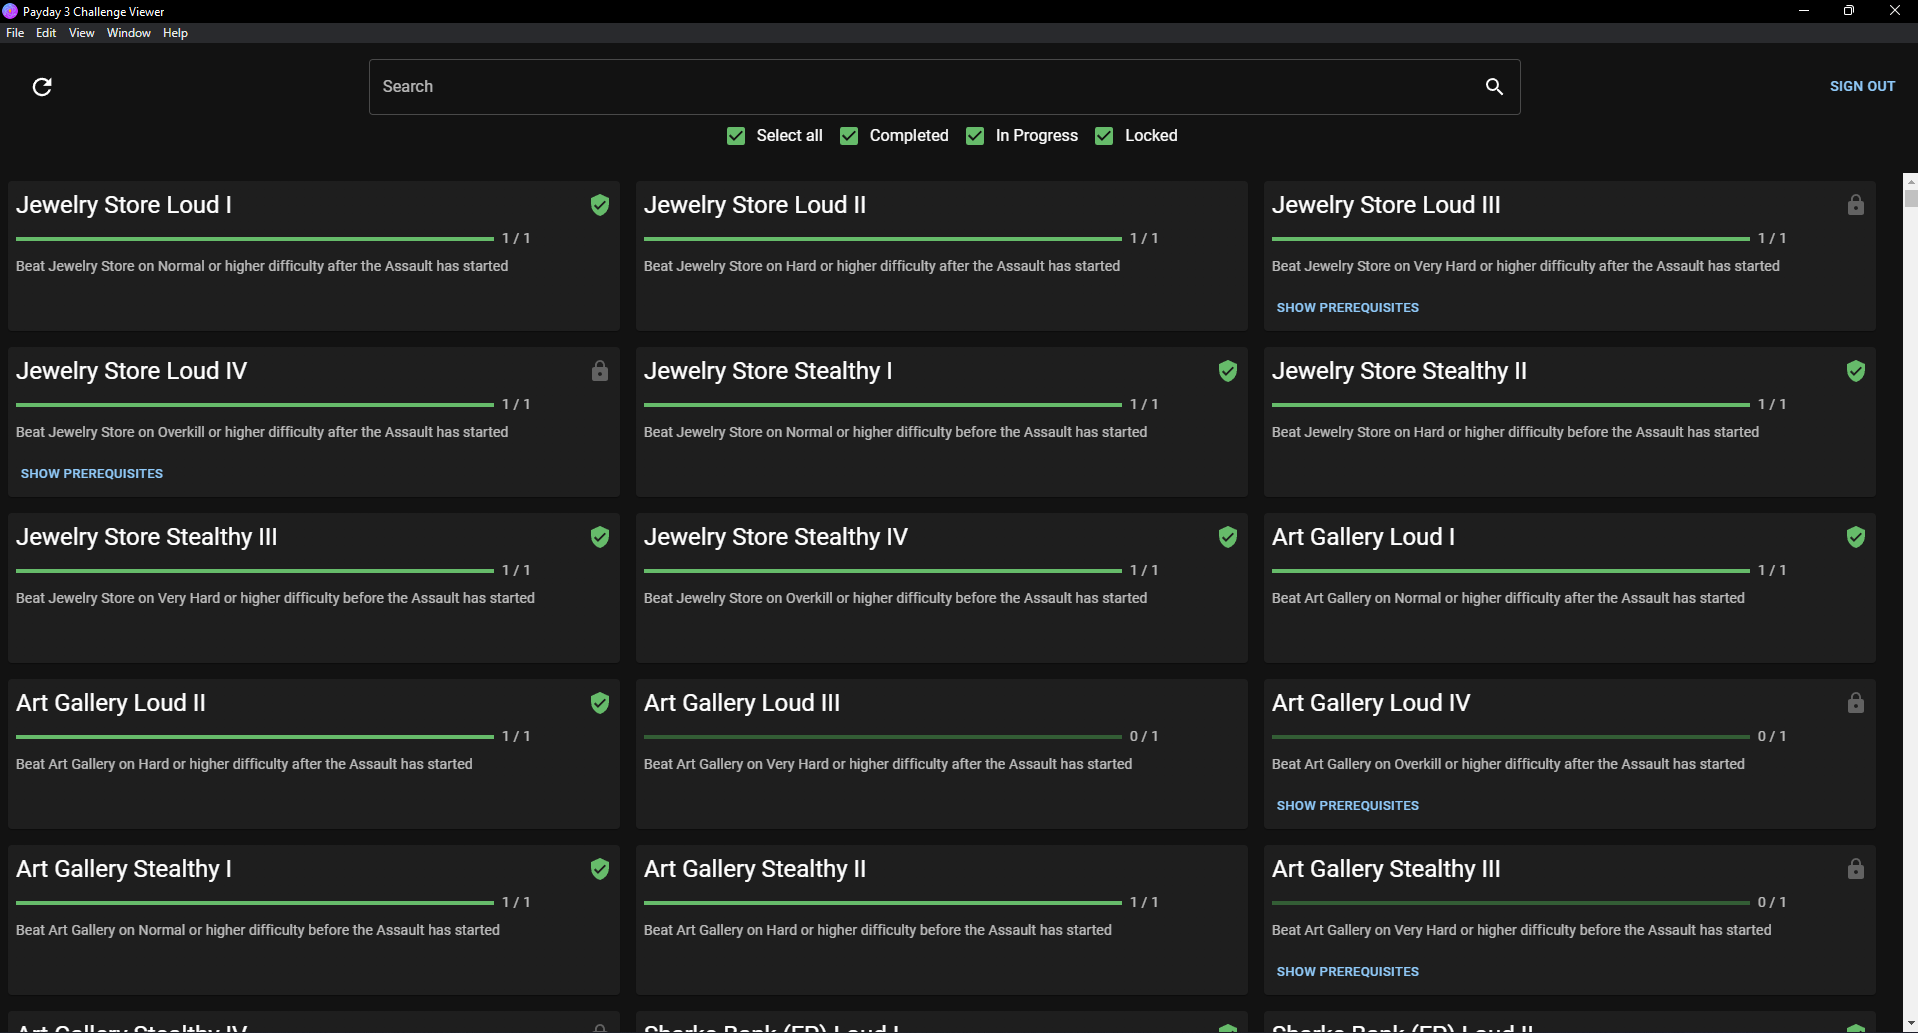
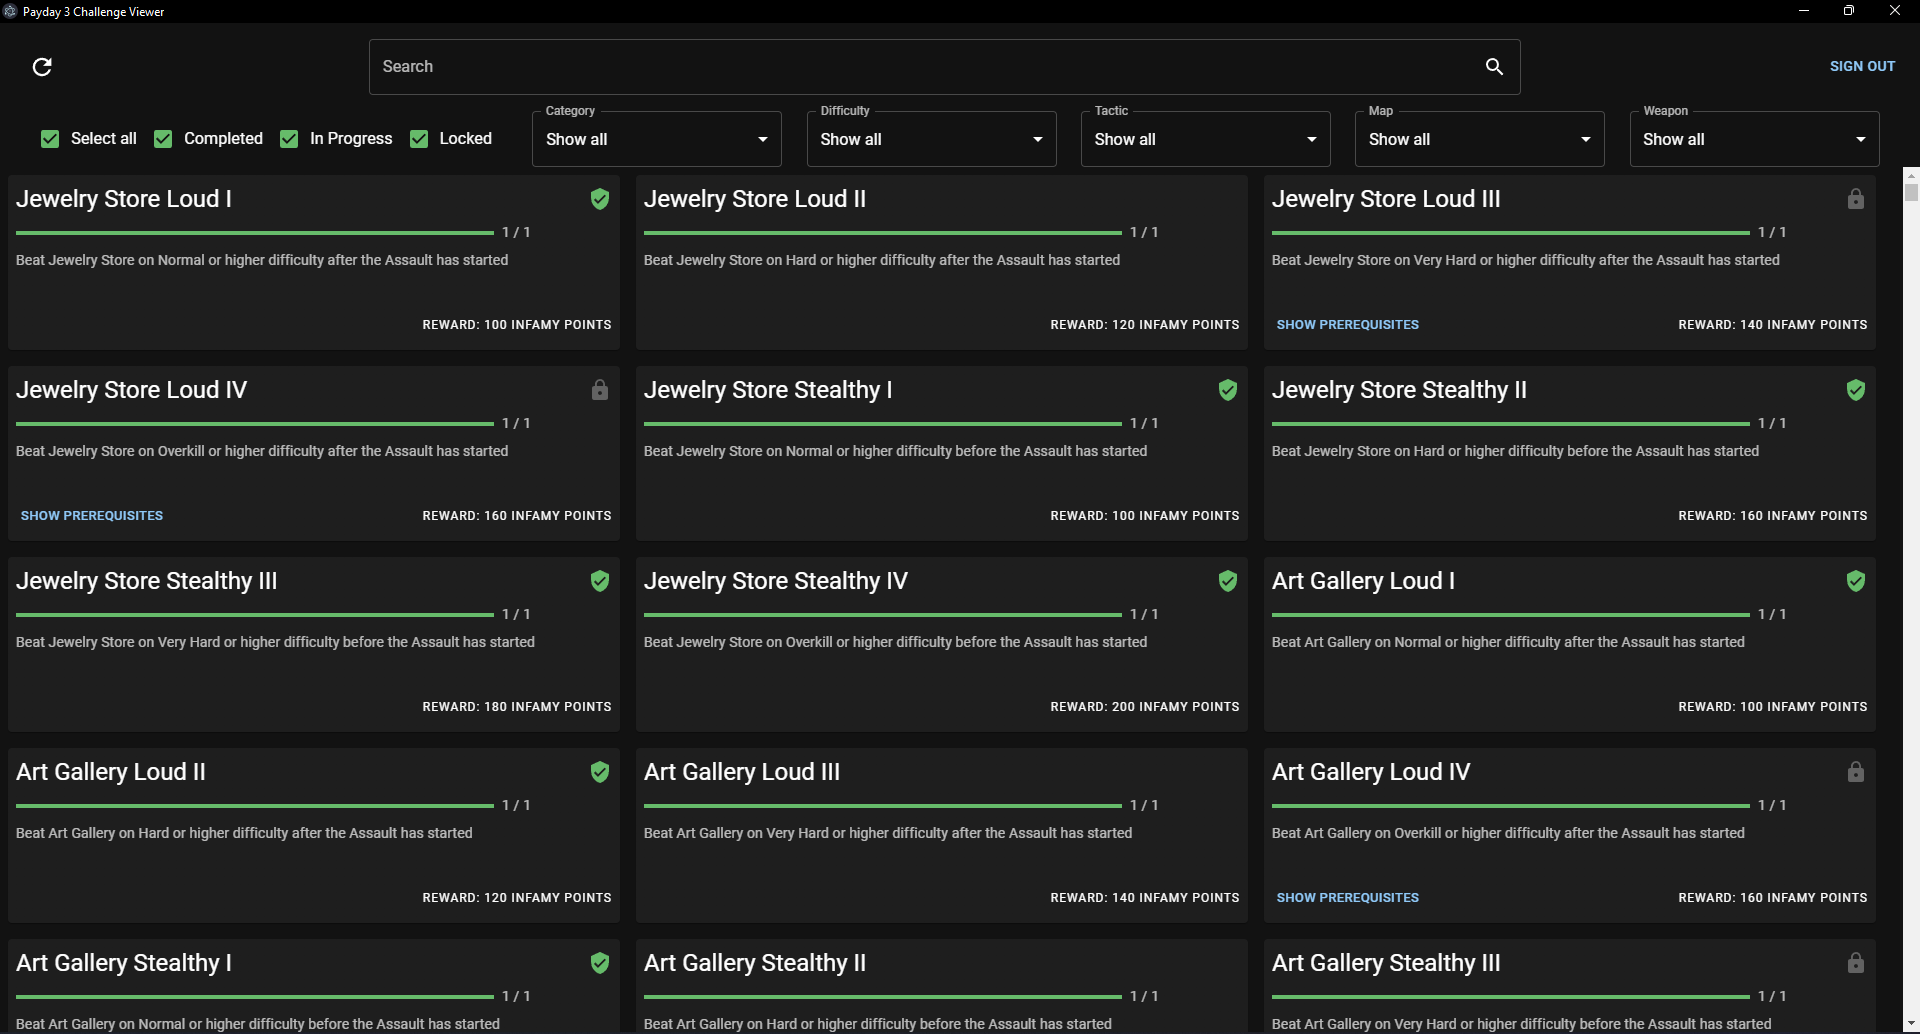
Add filters on tags

diff --git a/src/renderer/src/components/challenges.components.tsx b/src/renderer/src/components/challenges.components.tsx
@@ -12,6 +12,8 @@ import IconButton from '@mui/material/IconButton'
 import Button from '@mui/material/Button'
 import Modal from '@mui/material/Modal'
 import ChallengeModal from './challengeModal.components'
+import FilterSelect from './filterSelect.components'
+import customTagFilters from '@renderer/data/customTagFilters'
 
 const ItemContainer = styled.div`
   padding: 0.5rem;
@@ -43,6 +45,7 @@ export default function Challenges({ onLogout }: any) {
     INPROGRESS: true,
     INIT: true
   })
+  const [activeFilters, setActiveFilters] = useState({})
   const [open, setOpen] = React.useState(false)
   const handleOpen = () => setOpen(true)
   const handleClose = () => setOpen(false)
@@ -60,13 +63,16 @@ export default function Challenges({ onLogout }: any) {
     const data = await getUserChallenges()
     if (data) {
       const filteredChallenges = data.filter(
-        (challenge: any) => !challenge.challenge?.tags?.includes('Achievement')
+        (challenge: any) =>
+          !challenge.challenge?.tags?.includes('Achievement') &&
+          challenge.challenge?.tags.length > 0
       )
 
       const sortedChallenges = filteredChallenges.sort(
         (a: any, b: any) => a.challenge.orderNo - b.challenge.orderNo
       )
       setChallenges(sortedChallenges)
+      console.log(sortedChallenges)
     }
   }
 
@@ -74,10 +80,23 @@ export default function Challenges({ onLogout }: any) {
     const name = challenge.challenge.name.toLowerCase()
     const description = challenge.challenge.description.toLowerCase()
     const term = searchTerm.toLowerCase()
+
+    const hasTags = challenge.challenge.tags && challenge.challenge.tags.length > 0
+
+    const satisfiesActiveFilters = Object.entries(activeFilters).every(
+      ([filterType, filterTags]) => {
+        if (hasTags) {
+          return (filterTags as string[]).every((tag) => challenge.challenge.tags.includes(tag))
+        }
+        return true
+      }
+    )
+
     return (
       (name.includes(term) || description.includes(term)) &&
       // @ts-ignore
-      statusFilter[challenge.status]
+      statusFilter[challenge.status] &&
+      satisfiesActiveFilters
     )
   })
 
@@ -90,6 +109,11 @@ export default function Challenges({ onLogout }: any) {
     fetchData()
   }, [])
 
+  useEffect(() => {
+    console.log(filteredChallenges)
+    console.log(activeFilters)
+  }, [filteredChallenges])
+
   const handleChallengeModal = (challengesToComplete: any) => {
     const resultArray = challengesToComplete.map((obj: any) => obj.challengeId)
     const filteredChallenges = challenges.filter((challenge) =>
@@ -97,6 +121,17 @@ export default function Challenges({ onLogout }: any) {
     )
     setModalChallenges(filteredChallenges)
     handleOpen()
+  }
+
+  const onTagFilterChange = (selectedTags, optionName) => {
+    setActiveFilters((prev) => {
+      if (selectedTags.includes('All')) {
+        const updated = { ...prev }
+        delete updated[optionName]
+        return updated
+      }
+      return { ...prev, [optionName]: selectedTags }
+    })
   }
 
   if (!challenges) return 'Chargement...'
@@ -119,7 +154,7 @@ export default function Challenges({ onLogout }: any) {
           display: 'flex',
           flexDirection: 'column',
           alignItems: 'center',
-          py: 2,
+          pt: 2,
           mx: 2
         }}
       >
@@ -135,10 +170,22 @@ export default function Challenges({ onLogout }: any) {
           <IconButton aria-label="delete" size="large" onClick={fetchData}>
             <RefreshIcon fontSize="inherit" />
           </IconButton>
-          <SearchBar onChange={(value: any) => setSearchTerm(value)} />
+          <SearchBar onChange={setSearchTerm} />
           <Button onClick={signOut}>Sign out</Button>
         </Box>
-        <StatusSelect onStatusChange={handleStatusChange} />
+        <Box
+          style={{ display: 'flex', justifyContent: 'space-evenly', width: '100%', marginTop: 16 }}
+        >
+          <StatusSelect onStatusChange={handleStatusChange} />
+          {Object.entries(customTagFilters).map(([key, values]) => (
+            <FilterSelect
+              key={key}
+              optionName={key}
+              filterOptions={values.map((value) => ({ name: value.name, tags: value.tags }))}
+              filterChange={onTagFilterChange}
+            />
+          ))}
+        </Box>
       </Box>
       <Box height={'100%'}>
         <VirtuosoGrid

diff --git a/src/renderer/src/data/customTagFilters.ts b/src/renderer/src/data/customTagFilters.ts
@@ -1,0 +1,160 @@
+export default {
+  Category: [
+    {
+      name: 'Heist',
+      tags: ['Heist']
+    },
+    {
+      name: 'Combat',
+      tags: ['Combat']
+    },
+    {
+      name: 'Career',
+      tags: ['General']
+    },
+    {
+      name: 'Weapons specific',
+      tags: ['Unlock']
+    }
+  ],
+  Difficulty: [
+    {
+      name: 'Normal',
+      tags: ['Normal']
+    },
+    {
+      name: 'Hard',
+      tags: ['Hard']
+    },
+    {
+      name: 'Very Hard',
+      tags: ['Very', 'Hard']
+    },
+    {
+      name: 'Overkill',
+      tags: ['Overkill']
+    }
+  ],
+  Tactic: [
+    {
+      name: 'Loud',
+      tags: ['Loud']
+    },
+    {
+      name: 'Stealth',
+      tags: ['Stealth']
+    }
+  ],
+  Map: [
+    {
+      name: 'No Rest For The Wicked',
+      tags: ['Branch', 'Bank']
+    },
+    {
+      name: 'Road Rage',
+      tags: ['Armored', 'Transport']
+    },
+    {
+      name: 'Dirty Ice',
+      tags: ['Jewelry', 'Store']
+    },
+    {
+      name: 'Rock the Cradle',
+      tags: ['Night', 'Club']
+    },
+    {
+      name: 'Under the Surphaze',
+      tags: ['Art', 'Gallery']
+    },
+    {
+      name: 'Gold & Sharke',
+      tags: ['Sharke', 'Bank']
+    },
+    {
+      name: '99 Boxes',
+      tags: ['Cargo', 'Dock']
+    },
+    {
+      name: 'Touch the Sky',
+      tags: ['Penthouse']
+    }
+  ],
+  Weapon: [
+    {
+      name: 'CAR-4',
+      tags: ['CAR4']
+    },
+    {
+      name: 'FIK PC9',
+      tags: ['PC9']
+    },
+    {
+      name: 'Het-5 Red Fox',
+      tags: ['HET5']
+    },
+    {
+      name: 'J&M Castigo 44',
+      tags: ['Castigo44']
+    },
+    {
+      name: 'KU-59',
+      tags: ['KU59']
+    },
+    {
+      name: 'Marcom Mamba GL',
+      tags: ['Mamba']
+    },
+    {
+      name: 'Mosconi 12 Classic',
+      tags: ['Mosconi12C']
+    },
+    {
+      name: 'Northwest B-9',
+      tags: ['NWB9']
+    },
+    {
+      name: 'Reinfeld 880',
+      tags: ['R880']
+    },
+    {
+      name: 'Reinfeld 900S',
+      tags: ['R900S']
+    },
+    {
+      name: 'SA A144',
+      tags: ['A114']
+    },
+    {
+      name: 'SG Compact-7',
+      tags: ['Compact7']
+    },
+    {
+      name: 'Signature 40',
+      tags: ['S40']
+    },
+    {
+      name: 'Signature 403',
+      tags: ['S403']
+    },
+    {
+      name: 'Sforza Bison',
+      tags: ['Bison']
+    },
+    {
+      name: 'SP Model 11',
+      tags: ['SPM11']
+    },
+    {
+      name: 'Stryk 7',
+      tags: ['Stryk7']
+    },
+    {
+      name: 'VF-7S',
+      tags: ['VF7S']
+    },
+    {
+      name: 'Ziv Commando',
+      tags: ['Commando']
+    }
+  ]
+}

diff --git a/src/renderer/src/components/filterSelect.components.tsx b/src/renderer/src/components/filterSelect.components.tsx
@@ -1,0 +1,54 @@
+import * as React from 'react'
+import InputLabel from '@mui/material/InputLabel'
+import MenuItem from '@mui/material/MenuItem'
+import FormControl from '@mui/material/FormControl'
+import Select, { SelectChangeEvent } from '@mui/material/Select'
+import { Box } from '@mui/material'
+
+interface FilterOption {
+  name: string
+  tags: string[]
+}
+
+interface FilterSelectProps {
+  optionName: string
+  filterOptions: FilterOption[]
+  filterChange: (selectedTags: string[], optionName: string) => void
+}
+
+export default function FilterSelect({
+  optionName,
+  filterOptions,
+  filterChange
+}: FilterSelectProps) {
+  const [selectedOption, setSelectedOption] = React.useState<FilterOption | 'All'>('All')
+
+  const handleChange = (event: SelectChangeEvent) => {
+    const value = event.target.value
+    const selected = filterOptions.find((option) => option.name === value) || 'All'
+    setSelectedOption(selected)
+    filterChange(selected !== 'All' ? selected.tags : [], optionName)
+  }
+
+  return (
+    <Box sx={{ minWidth: 250 }}>
+      <FormControl fullWidth>
+        <InputLabel id={optionName + '-label'}>{optionName}</InputLabel>
+        <Select
+          labelId={optionName + '-label'}
+          value={selectedOption !== 'All' ? selectedOption.name : 'All'}
+          label={optionName}
+          onChange={handleChange}
+          autoWidth={true}
+        >
+          <MenuItem value="All">Show all</MenuItem>
+          {filterOptions.map((option, index) => (
+            <MenuItem value={option.name} key={index}>
+              {option.name}
+            </MenuItem>
+          ))}
+        </Select>
+      </FormControl>
+    </Box>
+  )
+}

diff --git a/src/renderer/src/components/challengeCard.components.tsx b/src/renderer/src/components/challengeCard.components.tsx
@@ -51,8 +51,13 @@ export default function ChallengeCard({ challenge, openModal }: any) {
     openModal(challengesToComplete)
   }
 
+  const challengeRewards =
+    challenge.challenge.reward?.stats?.[0]?.statCode === 'infamy-point'
+      ? challenge.challenge.reward.stats[0].value
+      : ''
+
   return (
-    <Card style={{ width: '100%', height: '150px' }}>
+    <Card style={{ width: '100%', height: '175px', display: 'flex', flexDirection: 'column' }}>
       <CardContent style={{ padding: 8 }}>
         <Typography
           gutterBottom
@@ -80,15 +85,22 @@ export default function ChallengeCard({ challenge, openModal }: any) {
           {challenge.challenge.description}
         </Typography>
       </CardContent>
-      {!!openModal && challenge.status === 'INIT' ? (
-        <CardActions>
+      <CardActions style={{ alignItems: 'baseline', paddingTop: 0, marginTop: 'auto' }}>
+        {!!openModal && challenge.status === 'INIT' ? (
           <Button size="small" onClick={openChallengeModal}>
             Show prerequisites
           </Button>
-        </CardActions>
-      ) : (
-        ''
-      )}
+        ) : (
+          ''
+        )}
+        {!!challengeRewards ? (
+          <Typography variant="overline" display="block" style={{ marginLeft: 'auto' }}>
+            Reward: {challengeRewards} Infamy points
+          </Typography>
+        ) : (
+          ''
+        )}
+      </CardActions>
     </Card>
   )
 }

diff --git a/src/renderer/src/components/challengeCardPlaceholder.components.tsx b/src/renderer/src/components/challengeCardPlaceholder.components.tsx
@@ -5,7 +5,7 @@ import { Skeleton } from '@mui/material'
 
 export default function ChallengeCardPlaceholder() {
   return (
-    <Card style={{ width: '100%', height: '150px' }}>
+    <Card style={{ width: '100%', height: '175px' }}>
       <CardContent>
         <Typography gutterBottom variant="h5" component="div">
           <Skeleton animation="wave" width="80%" height={40} />{' '}
